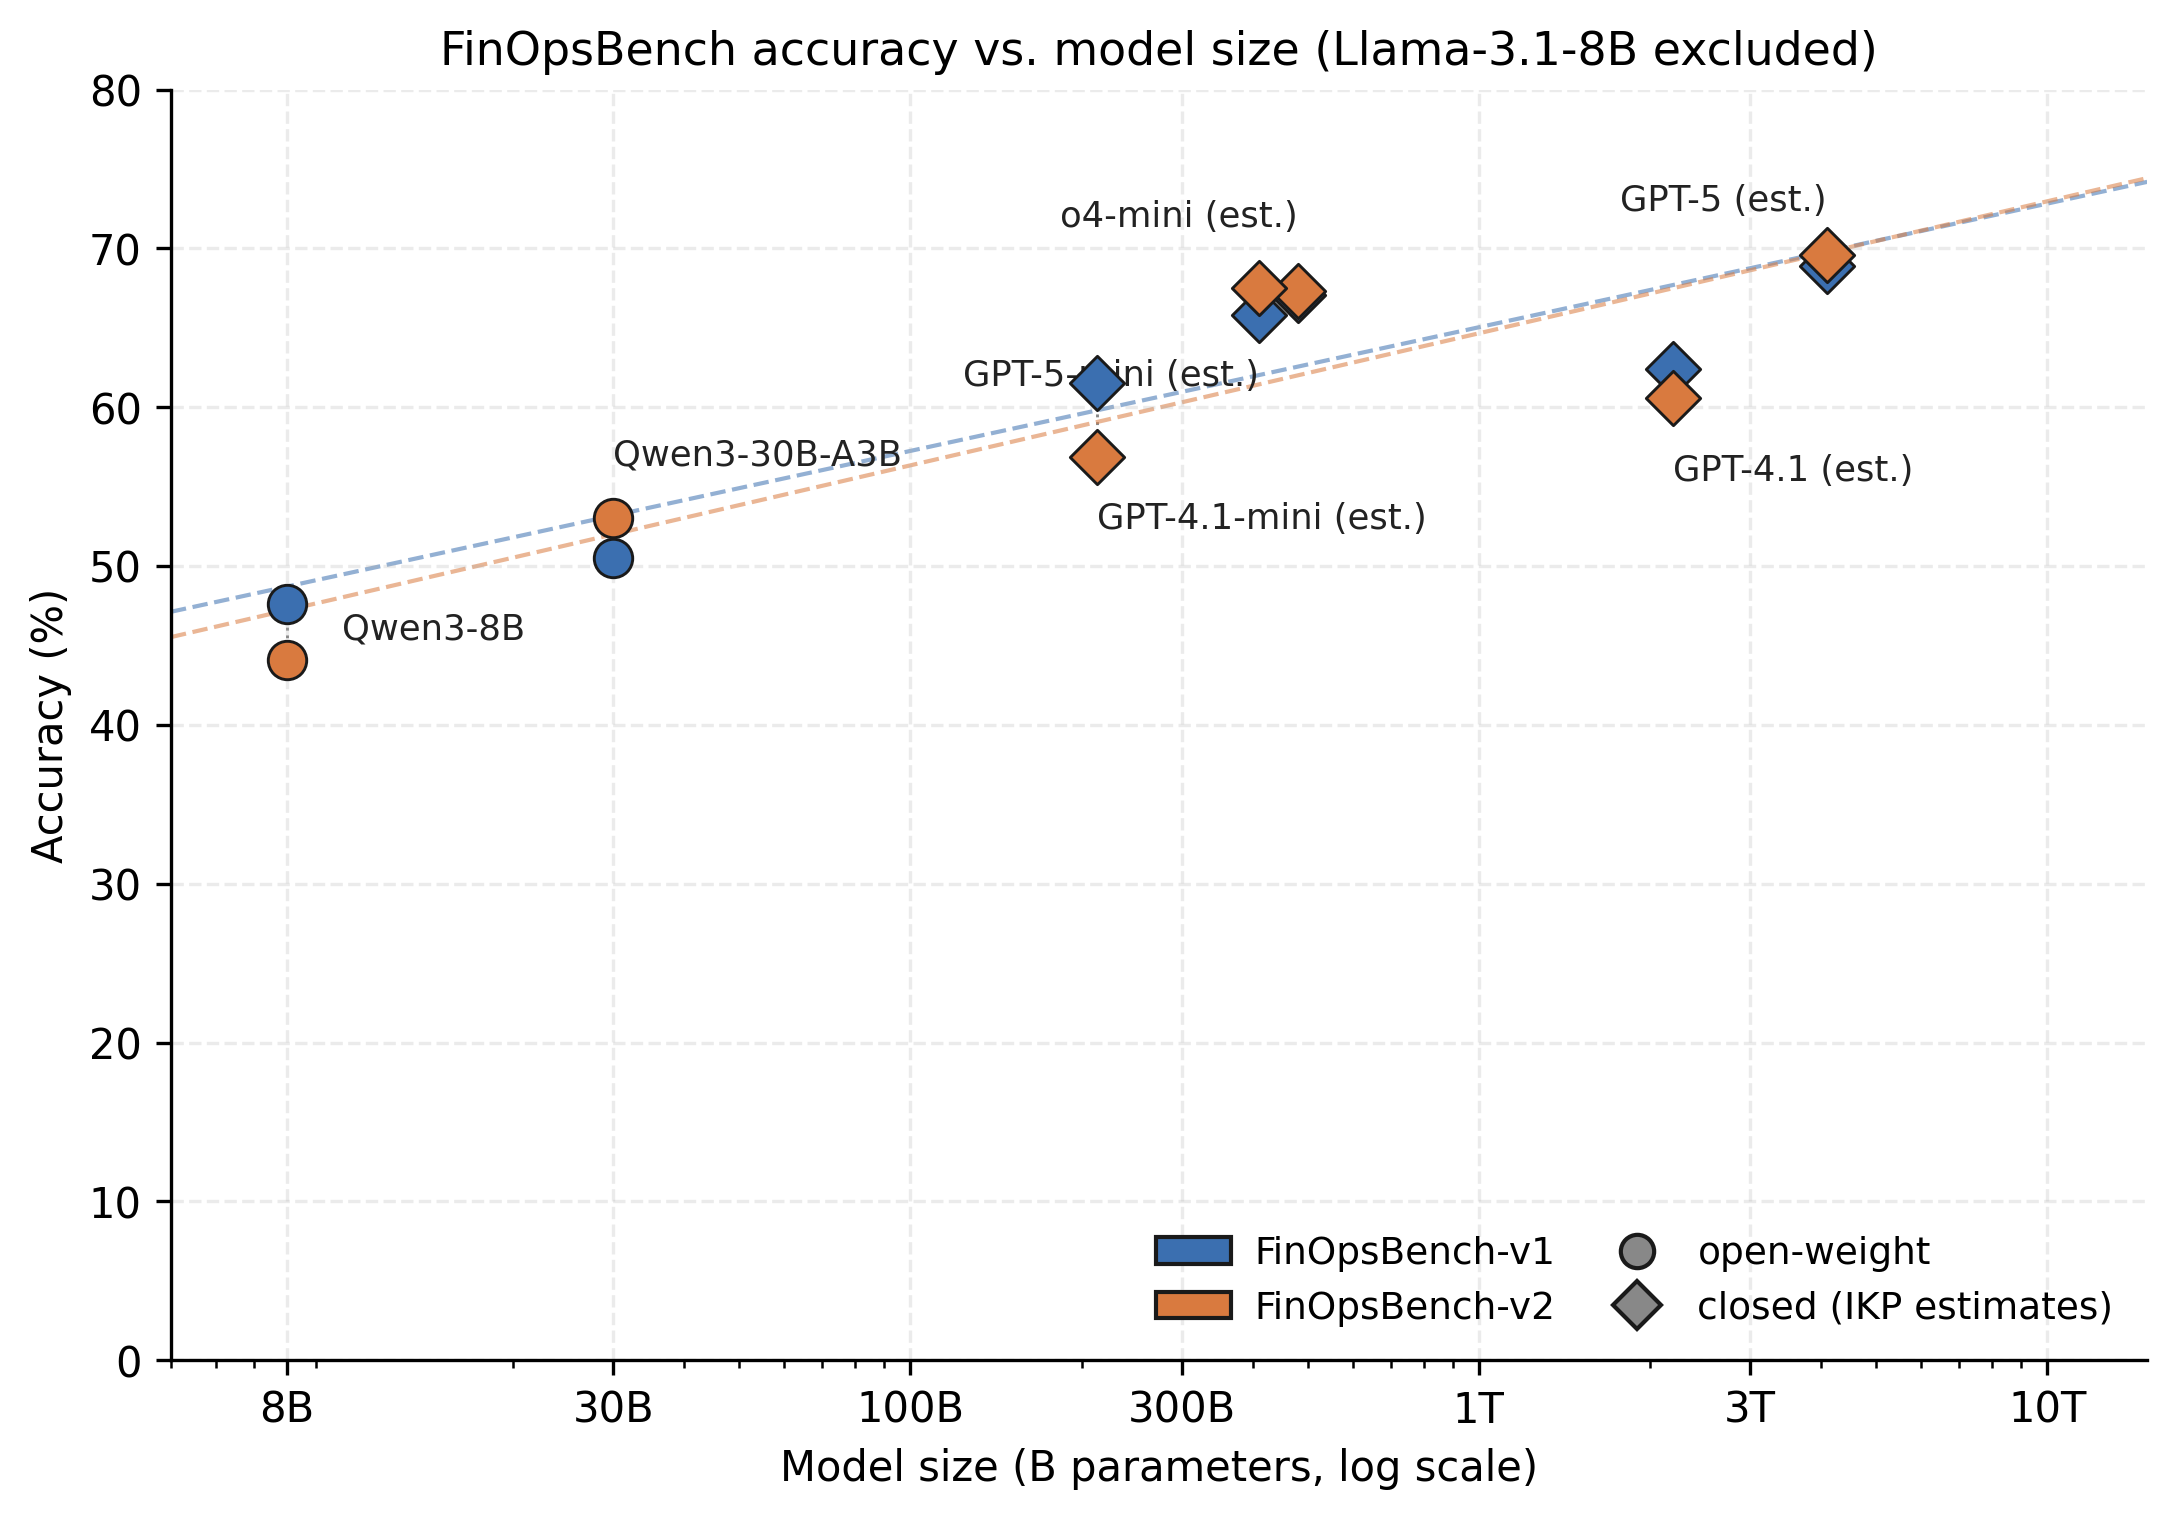
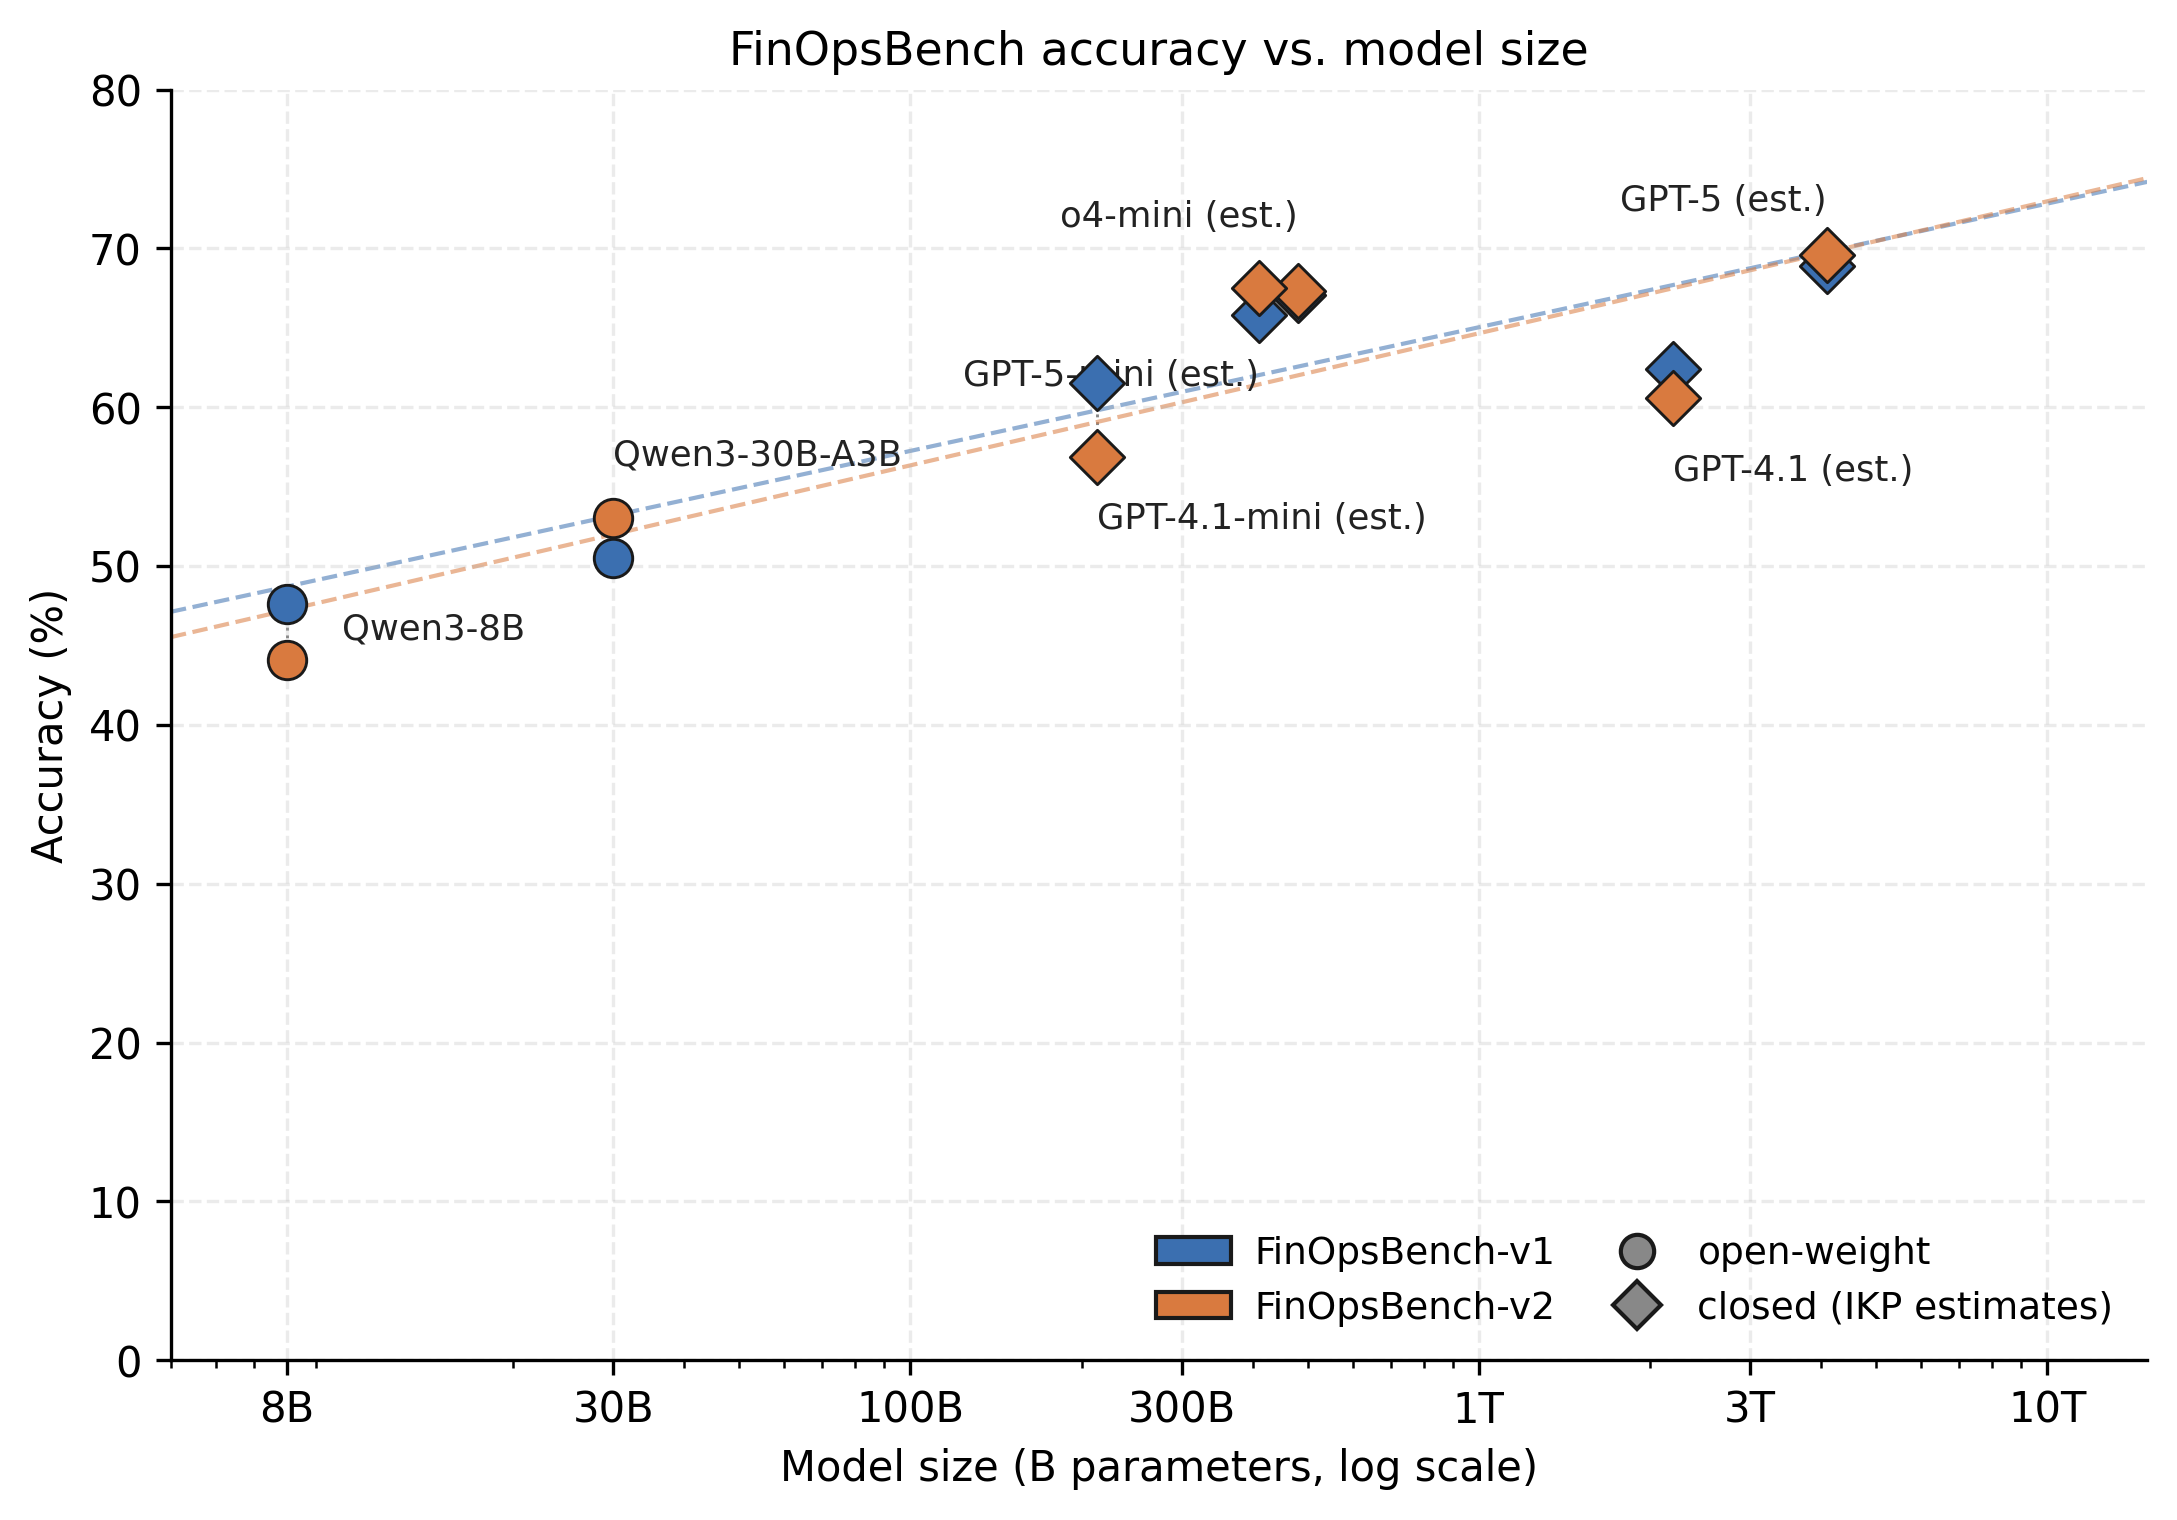
dataset paper: drop "Llama-3.1-8B excluded" suffix from no-llama plot title
Title on fig_accuracy_vs_size_no_llama is now just
"FinOpsBench accuracy vs. model size" -- the file name already tells
the reader Llama is excluded, no need to repeat it in the chart
title.

Changed region(s): [[0.2186, 0.0, 0.8434, 0.0618]]

diff --git a/papers/emnlp2026/figures/make_size_scatter.py b/papers/emnlp2026/figures/make_size_scatter.py
@@ -150,5 +150,4 @@ render(MODELS,
 # remaining 7 models.
 render([t for t in MODELS if t[0] != "Llama-3.1-8B"],
        out_stem="fig_accuracy_vs_size_no_llama",
-       fit_excluding=None,
-       title_suffix=" (Llama-3.1-8B excluded)")
+       fit_excluding=None)
